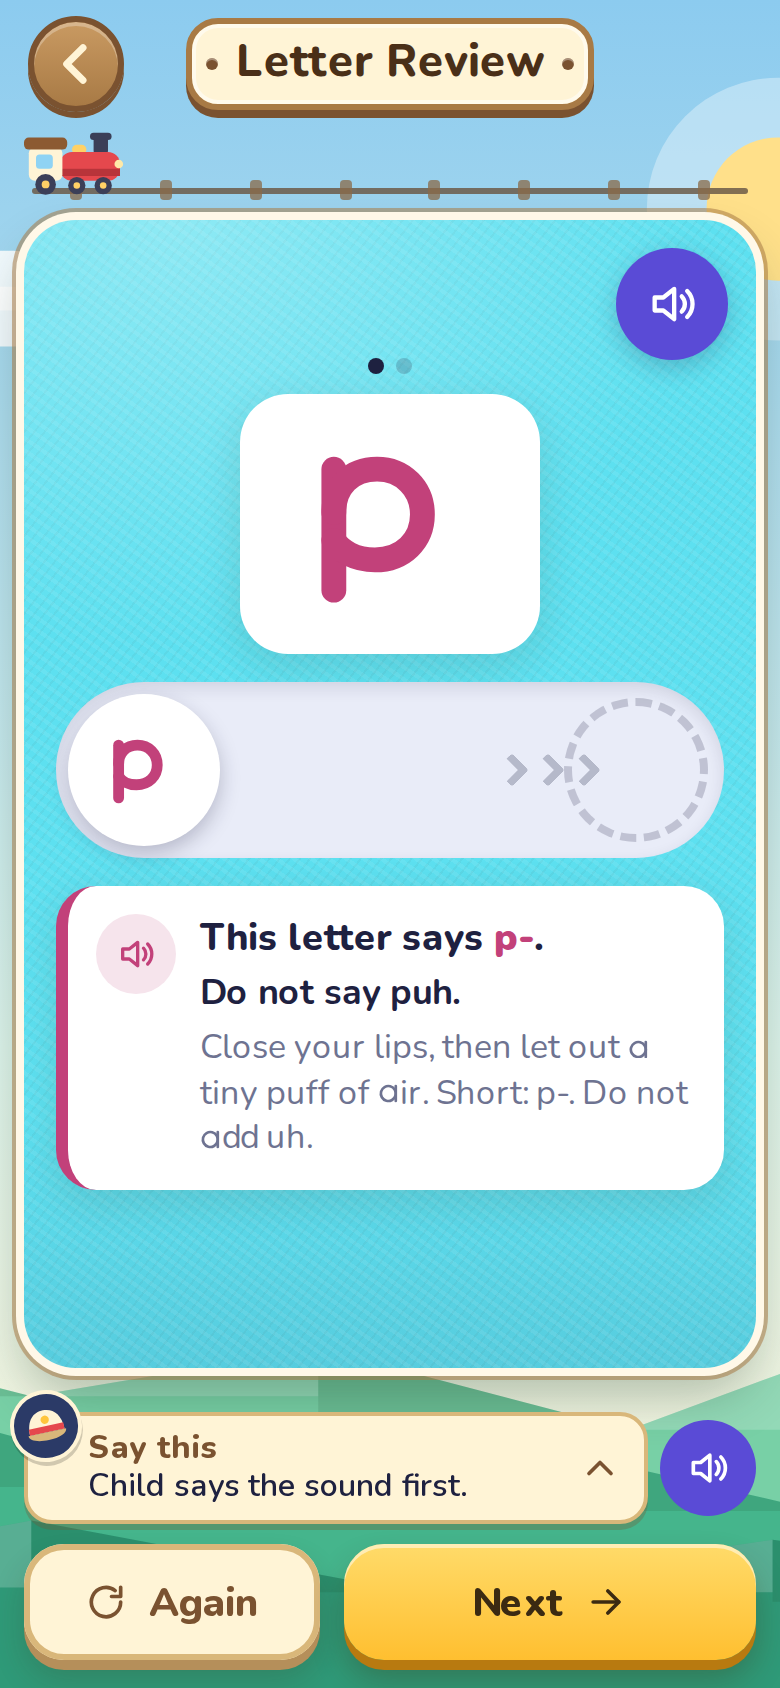
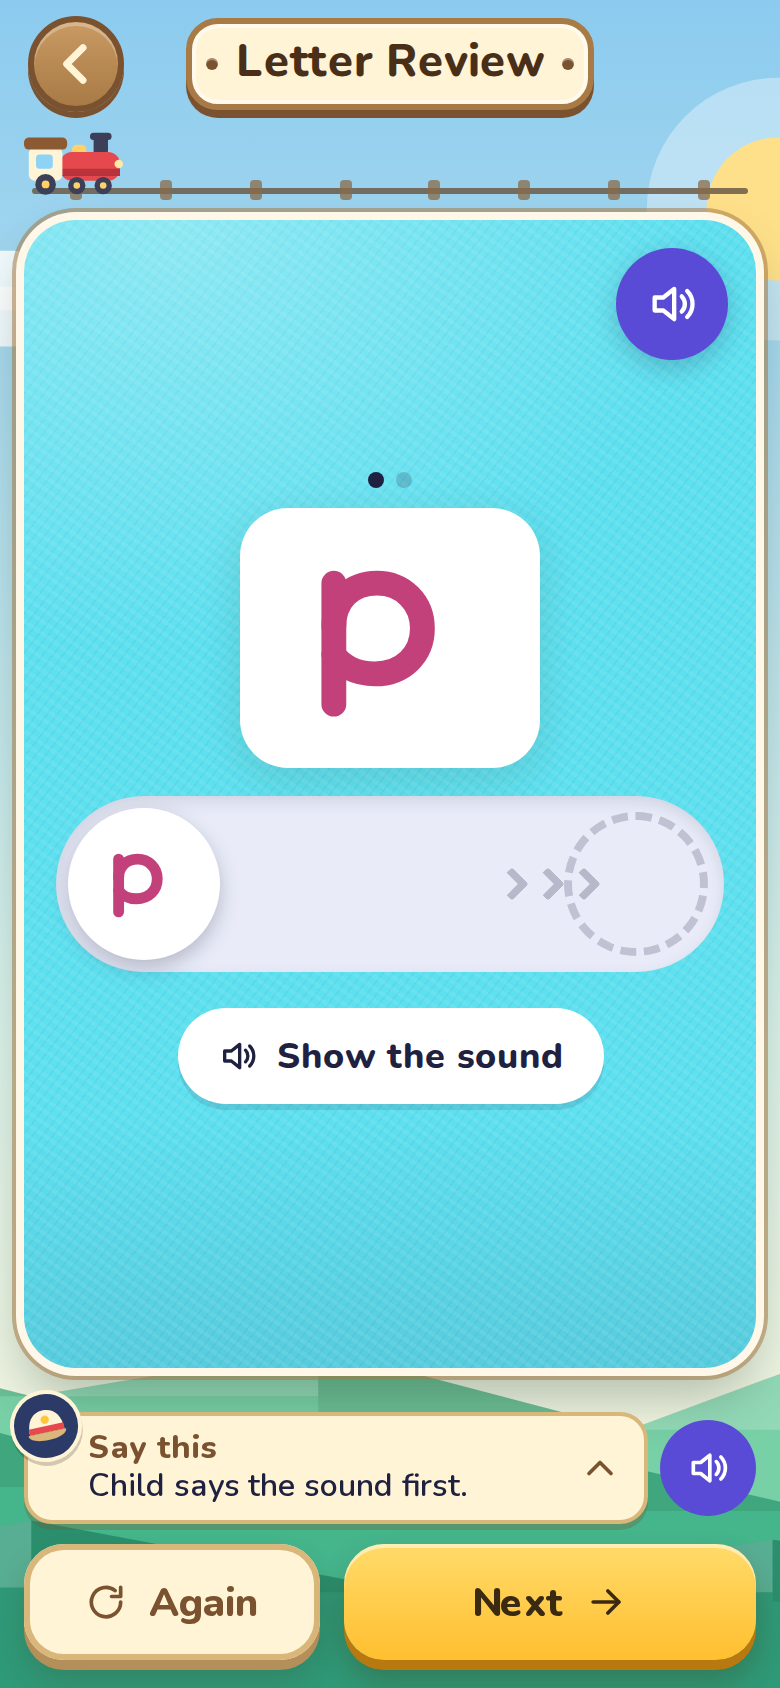
Retrieval first in Letter Review (answer hidden until Show the sound); one-time layoutA migration clears unfinished lessons' task ticks
Claude-Session: https://claude.ai/code/session_016cKvBQBv9Ceas6c2YjYcfF

Changed region(s): [[0.0615, 0.2156, 0.9538, 0.7085]]

diff --git a/js/store.js b/js/store.js
@@ -28,7 +28,7 @@ const fresh = () => ({
   order: ORDER, // the lesson order this state was saved under (js/order.js)
   lessons: {},
   checkpoints: {}, // bonus review games between lessons, by id: {result, completedAt, unlocked}
-  settings: { voiceURI: null, rate: 0.9, autoSpeak: false, playSounds: true, sfx: true, music: true, sfxVolume: 0.6, fullInstructions: false, trainWorld: true, seenScripts: {}, tipsSeen: [], migrated1912: true, pace4: true, speak0: true, perDay: 4, restOverride: null, dev: false, devOpenAll: false, devNoLimit: false, newPractice: true },
+  settings: { voiceURI: null, rate: 0.9, autoSpeak: false, playSounds: true, sfx: true, music: true, sfxVolume: 0.6, fullInstructions: false, trainWorld: true, seenScripts: {}, tipsSeen: [], migrated1912: true, pace4: true, speak0: true, layoutA: true, perDay: 4, restOverride: null, dev: false, devOpenAll: false, devNoLimit: false, newPractice: true },
   character: cleanCharacter({}), // the child's figure and name (js/character.js): on this device only
   meetDue: true, // the character creator shows once, after the welcome card
   firstRunDone: false,
@@ -42,7 +42,7 @@ const fresh = () => ({
 export function cleanSettings(s, d) {
   const num = (v, lo, hi, dflt) => (typeof v === 'number' && Number.isFinite(v) ? Math.min(hi, Math.max(lo, v)) : dflt);
   const out = { ...s, rate: num(s.rate, 0.7, 1.1, d.rate), sfxVolume: num(s.sfxVolume, 0, 1, d.sfxVolume) };
-  for (const k of ['autoSpeak', 'playSounds', 'sfx', 'music', 'fullInstructions', 'trainWorld', 'migrated1912', 'pace4', 'speak0']) if (typeof s[k] !== 'boolean') out[k] = d[k];
+  for (const k of ['autoSpeak', 'playSounds', 'sfx', 'music', 'fullInstructions', 'trainWorld', 'migrated1912', 'pace4', 'speak0', 'layoutA']) if (typeof s[k] !== 'boolean') out[k] = d[k];
   for (const k of ['dev', 'devOpenAll', 'devNoLimit', 'newPractice']) if (typeof s[k] !== 'boolean') out[k] = d[k];
   if (![0, 1, 2, 3, 4].includes(s.perDay)) out.perDay = d.perDay; // new lessons per day: 1 to 4, or 0 for no limit
   if (typeof s.restOverride !== 'string' || !/^\d{4}-\d{2}-\d{2}$/.test(s.restOverride)) out.restOverride = null; // the local date a grown-up opened a resting lesson
@@ -106,6 +106,13 @@ export function createStore() {
       if (settings.pace4 !== true) { migrated = true; settings = { ...settings, perDay: settings.perDay === 2 || settings.perDay === undefined ? 4 : settings.perDay, pace4: true }; }
       // Owner (1.9.25+): the phone's voice no longer speaks by itself on a screen open. A save still on the old default (on) turns it off once; a later choice in Grownups is kept.
       if (settings.speak0 !== true) { migrated = true; settings = { ...settings, autoSpeak: false, speak0: true }; }
+      // Lesson rebuild A changed every lesson's task list, so a saved task number now points at another task. Once, a lesson that is not
+      // finished (result is not got-it) starts its tasks again; finished lessons stay exactly as they were.
+      if (settings.layoutA !== true) {
+        migrated = true;
+        for (const l of Object.values(lessons)) if (l.result !== 'got-it') l.tasksDone = [];
+        settings = { ...settings, layoutA: true };
+      }
       // Saved data from before checkpoints existed simply has none.
       const checkpoints = {};
       if (p.checkpoints && typeof p.checkpoints === 'object' && !Array.isArray(p.checkpoints)) {

diff --git a/js/screens/tasks/review.js b/js/screens/tasks/review.js
@@ -1,4 +1,4 @@
-import { h } from '../../dom.js';
+import { h, icon } from '../../dom.js';
 import { glyphSvg, drawIn } from '../../glyphs.js';
 import { slideTrack } from '../../components/slide-track.js';
 import { soundCard } from '../../components/sound-card.js';
@@ -13,15 +13,29 @@ export function build({ lesson, curriculum, speech, refresh }) {
   const dots = h('div', { class: 'review-count' });
   const el = h('div', { class: 'review' }, dots, holder);
   const sound = () => curriculum.sounds[keys[i]];
-  let track = null;
+  let track = null, revealed = false;
+  const say = () => speech.say([{ clip: sound().glyph }, { tts: sound().words[0].word }]);
 
+  // Retrieval first: the answer (the sound card and the recording) stays hidden until the grown-up taps "Show the sound" after the
+  // child has tried, or presses Again.
+  function reveal() {
+    if (revealed) return;
+    revealed = true;
+    const slot = holder.querySelector('.review-help');
+    if (slot) slot.replaceWith(soundCard(sound()));
+    el.dataset.revealed = '1';
+    say();
+    refresh();
+  }
   function show() {
+    revealed = false;
+    el.dataset.revealed = '0';
     const s = sound();
     if (track) track.cleanup();
     holder.replaceChildren();
     const g = glyphSvg(s.glyph, { color: accentOf(s.glyph), label: 'review letter' });
     track = slideTrack({ letter: s.glyph });
-    holder.append(h('div', { class: 'letter-card' }, g), track, soundCard(s));
+    holder.append(h('div', { class: 'letter-card' }, g), track, h('button', { class: 'btn small ghost review-help', type: 'button', onclick: reveal }, icon('speaker', 20), 'Show the sound'));
     dots.replaceChildren(...(keys.length > 1 ? keys.map((k, j) => h('i', { class: j === i ? 'on' : '' })) : []));
     drawIn(g, { per: 380 });
     refresh();
@@ -29,12 +43,12 @@ export function build({ lesson, curriculum, speech, refresh }) {
   show();
   return {
     el,
-    parts: () => { const s = sound(); return [{ clip: s.glyph }, { tts: s.words[0].word }]; },
+    parts: () => (revealed ? [{ clip: sound().glyph }, { tts: sound().words[0].word }] : [{ tts: 'What sound does this letter make?' }]),
     // Review: the child tries first. Stuck: say it together. Still stuck: the grown-up says it, the child says it after.
     script: () => 'Ask your child to say the sound of this letter. Your child can slide a finger under it. If they are stuck, say the sound together. Still stuck? Say it yourself, then have your child say it after you.',
     gist: () => 'Child says the sound first.',
-    again: () => { show(); speech.say([{ clip: sound().glyph }, { tts: sound().words[0].word }]); },
+    again: () => { show(); reveal(); },
     cleanup: () => track.cleanup(),
-    next: () => { if (i < keys.length - 1) { i++; show(); speech.say([{ clip: sound().glyph }, { tts: sound().words[0].word }]); return true; } return false; },
+    next: () => { if (i < keys.length - 1) { i++; show(); return true; } return false; },
   };
 }

diff --git a/css/app.css b/css/app.css
@@ -2049,3 +2049,4 @@ button.hw-tile:active { transform: translateY(3px) scale(.97); }
 .mouth-how-text { margin: 0; font-size: 18px; font-weight: 700; line-height: 1.3; }
 .art-mouth .mouth-ic { color: var(--coral); }
 @media (max-height: 700px) { .mouth-art { width: min(44vw, 170px, calc(100dvh - 400px)); min-width: 96px; } .mouth-how-text { font-size: 17px; } }
+.review-help { align-self: center; margin-top: 4px; }

diff --git a/README.md b/README.md
@@ -427,4 +427,4 @@ The design is in `docs/TRAIN-WORLD.md`; screenshots at four phone sizes are in `
 - v1.9.25: polish A: welcome card, character creator and Grownups, from the owner's "next level" request (docs/POLISH-PLAN.md). Welcome: each of the four pages has a flat SVG scene on a sky band (js/art/welcome-art.js: Pip waving from the engine with steam, a stack of books and a star, Pip with an "mmm" bubble, the word mom on three wagons); the scene band grows to fill what the longest page leaves, so the card keeps one size (no jump between pages) but has no empty gap, instead of changing height per page (decision: a card that resized would move Next under the parent's thumb); pages slide (CSS transform and opacity, none under reduced motion); the progress dots are tiny train wagons; Skip sits in the band's corner; the brand name never breaks over two lines (a span, same text); the owner's text is untouched and a test hashes it. Character creator: a big live figure on a stage (with a small bounce and the typed name), name label "Child's first name", labels Skin tone / Hair style / Hair color / Clothes, rows that scroll sideways with a fade at the edge, landscape in two columns; every option and the data model are unchanged. Grownups: a header card (figure, name, "Lesson N of M · world · gold stars"), Progress open by default, round icons on every title, then Lessons, Your child, Sound and voice (Voice and Sound effects merged), Pace, Account, a "Help and the thinking behind the app" group (Install, Screen, Links, the reference folds), Developer and Previews (developer mode only; prototypes), and a quiet dashed "Start over" card at the very bottom holding the unchanged Reset confirm; the privacy sentence under the name is gone; small buttons in Grownups are now 48 px (were 44). Tests updated deliberately: smoke (fold count and Progress open), worlds and journey (new order, Previews need developer mode), proto-lesson, proto-heart and proto-play (seed developer mode to reach Previews), pace (Developer sits above Start over, not at the top), guide (new Grownups order, hero, hidden Previews and Developer, Start over, welcome text hash, fit at three sizes) and character (live preview, labels, fade hint).
 - World preview fix and regions W5 to W7 (no version change): (1) "Look at a world" on the owner's phone showed "This preview needs 3D." We could not reproduce it (the test browser draws every world, with or without ?hq=1), so the fix removes every way the real flow Home > Grownups > world button could land on that card. Best evidence for the cause, from reading the flow: the card appeared whenever the preview's own context failed once (a null getContext on a phone at its context limit, an exception while building the scene on a real GPU) or `ctx.noTrain` was already true; `ctx.noTrain` was set for the whole page session by any thrown error in home3dScreen and by any `webglcontextlost` event (Android takes the GPU away when the screen dims or the app is backgrounded), and the preview had no second try. Fix: (a) `homeScreen` (js/screens/home.js) releases a context still held from the screen just left before asking for a new one (`releaseHeld`; home3d's cleanup still disposes the renderer and calls forceContextLoss); (b) the region preview tries twice: the normal configuration, then once more with a fresh canvas in the soft configuration (no multisampling, no shadow map, 1 pixel per CSS pixel; `makeGl(true)`); (c) a preview failure never sets `ctx.noTrain`, a region preview tries 3D even when the real Home gave up on it, and a lost context in a preview rebuilds the preview (at most twice) instead of marking 3D broken; (d) the fallback card still says "This preview needs 3D." and now has a Try again button, and in developer mode also the real error message (`.retry-error`); (e) a test hook `window.__fail3d = n` makes the next n preview attempts fail. Checked and ruled out: the baked region meshes are non-indexed (no 16-bit index limit) and every mesh is built through the bag. test/regions.mjs `flowChecks` runs the real flow (Home 3D, hold gate, dev mode, every world button W1 to W7 in sequence and after Back, no live context left behind, a second round), a forced first failure that recovers through the retry in the soft configuration, both attempts failing (developer mode shows the error, no error text otherwise, Try again works, Home stays 3D), a first getContext returning null, and the whole flow with 24 extra WebGL contexts open. (2) Regions W5 Blend Bay, W6 Endings Junction and W7 Silent E Summit (environments only, no lessons; `js/train/regions2.js`, themes `blend-bay`, `endings-junction`, `silent-e-summit` in js/train/themes.js, registered in sw.js): same method as W3 and W4 (still pieces baked into two vertex-coloured meshes, repeats instanced, nothing animated, comments mark idle-motion candidates), portals in the approved mountain's family with their own colours (lilac sea-cliff with a green top, brick-red cutting, grey-violet rock with a white snow cap from 0.6 of its height), signposts naming the next world (W5 Endings Junction, W6 Silent E Summit, W7 Vowel Team Town). The portrait camera shows only about four units to the far side of the track, so landmarks stand within it (W5 and W7 use `sidePortrait` 0.7: 0.35 and 0.5 cut the fourth station's sign). W5: curved plank boardwalk with rails, lamps and bunting, turquoise bay with foam, six colourful stilt beach huts with awnings and pennants, a landing stage with a bell frame and a brass bell, a ferry moored beside it, a lifeguard tower, an ice-cream kiosk with a cone on its roof, a rack of surfboards, palms, umbrellas, a sandcastle, buoys, three kites in the sky; placeholder stations st ft, nd mp nt, sp sk sn, sw sm sl, bl cl fl, pl gl, br tr cr, dr fr gr. W6: a passing siding with a box car, a tank car and a flat car under a signal gantry, a turntable with a fan of five arched roundhouse bays, a water tower with a spout, semaphore signals, telegraph poles with wires, warehouses with wordless painted signs (crate, barrel) on their camera-facing walls and loading docks, the clock-tower station hall with two clock faces, a level crossing with striped gates, crossbuck and lamps, terrace houses, a goods crane; stations s es, ing, ed, sun set, nap kin. W7: snowy faceted peaks behind everything, a valley cable-car station and a summit station on a stone pillar, two pylons, a cable and two hanging cabins, a layered cliff with a white waterfall into a pool, a stream under a stone arch bridge with a dark opening and parapets, a chalet with a balcony, flower boxes and a snowy roof, a wood pile, a hay hut, snow-capped pines and boulders, alpine flowers; stations we me he, a_e, i_e, o_e, u_e, e_e. Draw calls in the test renderer: W5 209, W6 213, W7 205 against 233 for W2 (portrait; 179, 174, 175 against 212 in landscape), 28k, 14k and 17k triangles of props. Screenshots: docs/screenshots/regions/W5-*, W6-*, W7-* (`node test/regions.mjs --shots`; `--all-shots` redraws W3 and W4).
 - v1.9.29: accounts on with Google: `js/config.js` now holds the live Supabase project URL and its publishable key (public by design; the secret key is never in the repo) and `OAUTH_PROVIDERS = ['google']`, so the sign-in gate is on in production. Sign-in screen: a white "Continue with Google" button with the four-colour G (inline SVG, 52 px) above the email form and an "or use your email" divider, only for providers listed. Flow: PKCE (`signInWithProvider` in js/account.js; the verifier is kept through `pkceStore` in js/store.js, the storage seam), redirect to Supabase `/auth/v1/authorize`, return with `?code=` which boot trades at `/auth/v1/token?grant_type=pkce` before the gate (then the usual sync rules; `code` is removed from the address); an `error` in the query or hash shows "Google sign-in didn't finish. Please try again."; tokens in the hash without `type=recovery` are accepted as a fallback (user read from `/auth/v1/user`). Grownups > Account shows "Signed in with Google" for those accounts. `Authorization` is sent only with a user token (the new publishable key is not a JWT; `apikey` carries it). Test environment: accounts are OFF on localhost unless `window.__config` is set or the address has `?accounts=1`, so the other suites run without the gate. Apple sign-in waits for the Apple Developer Program (needed before an iOS submission). test/account.mjs fakes authorize and the pkce exchange; test/platform.mjs checks the Supabase origin is the only remote origin (and that Google is a navigation). Docs: docs/BACKEND.md.
-- Lesson rebuild phase A (no version change; full before and after lists in `docs/LESSON-REBUILD.md`; owner decisions of 2026-10-08, sound order unchanged). (1) One frame for all 13 lessons, built by `tasksFor` in `js/lessons.js`: Letter Review (lesson 1: New Sound first), New Sound, Watch My Mouth, then `lesson.middle` (2 to 4 of Saying Sounds, Track Tracing, Letter Hunt, Green Light, Wagon Parade, Station Board; the patterns are `MIDDLES` in `js/games-data.js`, written by `tools/gen-lessons.mjs`; every middle has Saying Sounds and Track Tracing and no two neighbours match), then Practicing Words as the short closing review, then Ticket Check, always last. `gameSlot` and `CYCLE` are replaced by `middleFor`; `lesson.games` is now the tap games inside the middle. (2) New task `mouth` ("Watch My Mouth", `js/screens/tasks/mouth.js`, art `js/art/grownup.js`): one grown-up illustration with a finger at the side of the mouth, the owner's grown-up text, the sound as a recording or "Say: mmm" (the phone says only "Watch your grown-up's mouth."), and a "How to make this sound" panel from `sounds[k].mouth` (written by the generator's `MOUTH` table from the CURRICULUM.md pronunciation notes). (3) Word Cars is removed from the lessons (the white paper ties sound awareness to letters; Stage 1 keeps its oral blending): the task, `sayingWords` data and screen are gone. (4) Every outside YouTube link is gone: the Sound Story task, the Alphabet song row, Grownups > Links, `playlistUrl` and `alphabetSongUrl`, and the number gate `js/components/grown-gate.js` (its CSS stays: the rest card reuses it); the app opens no outside address, and the platform and lesson-rebuild tests fail if one returns. (5) Grown-up lines in the lessons and the f and heart prototypes were rewritten: "I do, we do, you do" for new sounds and skills, "child tries first, then together, then say it after me" for practice and review (`READ_HELP` unchanged); gists stay within 28 characters. (6) The f story's uneven, funky text: capitals and marks were drawn in Nunito 800 beside thin stroke letters; `wordSvg(..., { font: true })` now draws a whole sentence in Andika bold, used by the f story, the shared reading panel and the book reader. Saved progress: a half-finished lesson keeps its old task numbers, which now point at other tasks; finished lessons stay finished. New suite `test/lesson-rebuild.mjs` (in `npm test`).
+- Lesson rebuild phase A (no version change; full before and after lists in `docs/LESSON-REBUILD.md`; owner decisions of 2026-10-08, sound order unchanged). (1) One frame for all 13 lessons, built by `tasksFor` in `js/lessons.js`: Letter Review (lesson 1: New Sound first), New Sound, Watch My Mouth, then `lesson.middle` (2 to 4 of Saying Sounds, Track Tracing, Letter Hunt, Green Light, Wagon Parade, Station Board; the patterns are `MIDDLES` in `js/games-data.js`, written by `tools/gen-lessons.mjs`; every middle has Saying Sounds and Track Tracing and no two neighbours match), then Practicing Words as the short closing review, then Ticket Check, always last. `gameSlot` and `CYCLE` are replaced by `middleFor`; `lesson.games` is now the tap games inside the middle. (2) New task `mouth` ("Watch My Mouth", `js/screens/tasks/mouth.js`, art `js/art/grownup.js`): one grown-up illustration with a finger at the side of the mouth, the owner's grown-up text, the sound as a recording or "Say: mmm" (the phone says only "Watch your grown-up's mouth."), and a "How to make this sound" panel from `sounds[k].mouth` (written by the generator's `MOUTH` table from the CURRICULUM.md pronunciation notes). (3) Word Cars is removed from the lessons (the white paper ties sound awareness to letters; Stage 1 keeps its oral blending): the task, `sayingWords` data and screen are gone. (4) Every outside YouTube link is gone: the Sound Story task, the Alphabet song row, Grownups > Links, `playlistUrl` and `alphabetSongUrl`, and the number gate `js/components/grown-gate.js` (its CSS stays: the rest card reuses it); the app opens no outside address, and the platform and lesson-rebuild tests fail if one returns. (5) Grown-up lines in the lessons and the f and heart prototypes were rewritten: "I do, we do, you do" for new sounds and skills, "child tries first, then together, then say it after me" for practice and review (`READ_HELP` unchanged); gists stay within 28 characters. (6) The f story's uneven, funky text: capitals and marks were drawn in Nunito 800 beside thin stroke letters; `wordSvg(..., { font: true })` now draws a whole sentence in Andika bold, used by the f story, the shared reading panel and the book reader. Retrieval first in Letter Review: the sound card and recording stay hidden until the grown-up taps "Show the sound" (or Again); New Sound still shows it at once. Saved progress: a one-time migration (`settings.layoutA`, `js/store.js`) clears the task ticks of lessons that are not finished; finished lessons are untouched. New suite `test/lesson-rebuild.mjs` (in `npm test`).

diff --git a/docs/LESSON-REBUILD.md b/docs/LESSON-REBUILD.md
@@ -71,8 +71,8 @@ Lessons now have 7 to 9 tasks (they had 9 to 11). Green Light needs a second sou
 words, so it starts in lesson 5. No two neighbouring lessons share a middle (checked by `test/check-content.mjs` and
 `test/lesson-rebuild.mjs`).
 
-A small note on saved progress: a lesson that was half done keeps its saved task numbers, which now point at different tasks. A
-lesson that is finished stays finished. Nothing else is touched.
+Saved progress: task numbers changed, so a one-time migration (`settings.layoutA`, in `js/store.js`) clears the saved task ticks of
+every lesson that is not finished (result is not got-it). Finished lessons and all results are untouched.
 
 ## 4. What was removed, and why
 
@@ -102,7 +102,7 @@ not touched.
 - After: "I do: say mmm. We do: slide a finger under the letter and say it together. You do: your child slides under the letter and says it alone."
 - Gist before: "Say mmm. Child slides." After: "I do: say mmm."
 
-**Letter Review**
+**Letter Review** (the answer now stays hidden: the card shows the big letter and the slide track, and a "Show the sound" button for the grown-up; the sound card and the recording appear only when it is tapped, or with Again. The phone only asks "What sound does this letter make?")
 - Before: "Say mmm. Now you try. Slide the letter."
 - After: "Ask your child to say the sound of this letter. Your child can slide a finger under it. If they are stuck, say the sound together. Still stuck? Say it yourself, then have your child say it after you."
 - Gist before: "Say mmm. Child slides." After: "Child says the sound first."
